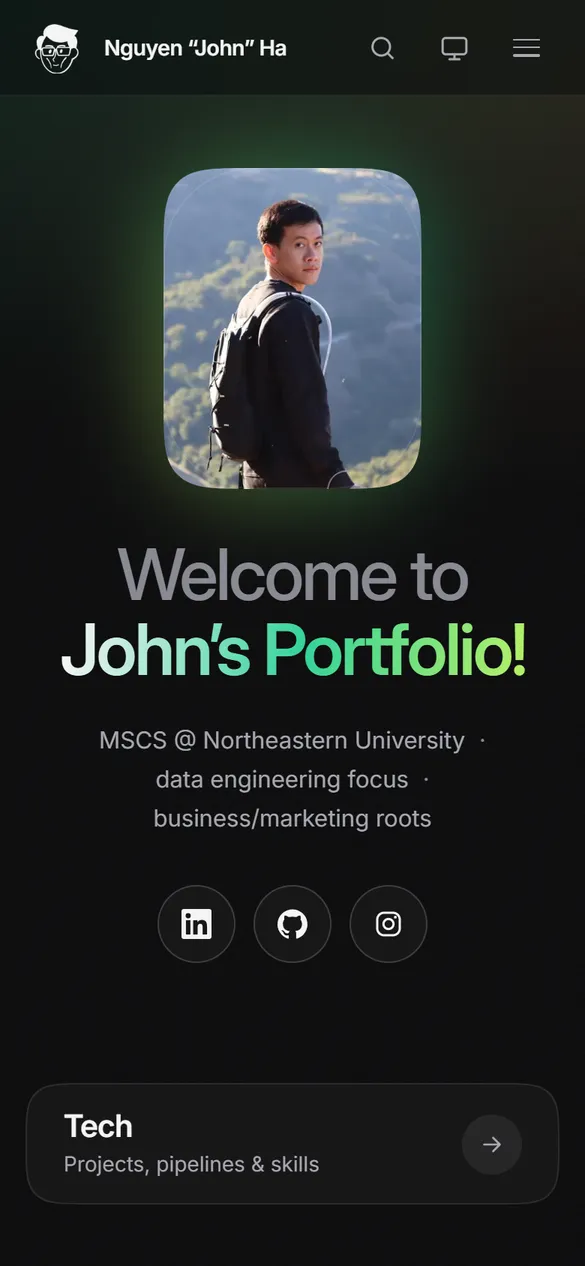
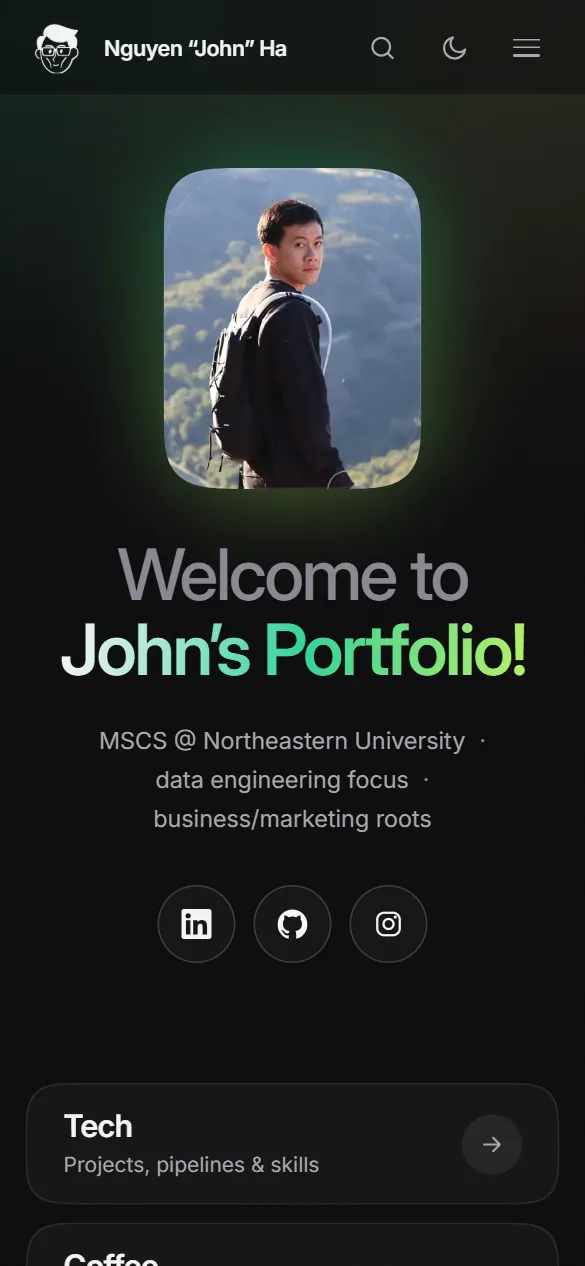
Refresh README screenshots and document the site structure
- Retake all six screenshots with the seven-link nav and the new
  About photo layout on phones
- New Site structure section: page tree, shared header and footer
- Repository layout lists what lives under site/

diff --git a/README.md b/README.md
@@ -41,6 +41,31 @@
 | **Coffee Blog** | Brew guides for pour over / flash brew, AeroPress, espresso, and Vietnamese phin, each with a recipe profile, steps, credited photos, and references; the espresso guide has an interactive TDS brewing control chart |
 | **Contact** | One-click email plus LinkedIn, GitHub, and Instagram |
 
+## Site structure
+
+```
+johnha.info
+├── /                              Home: portrait hero, social row, five-button section stack
+├── /about/                        About Me: photo collage, career path, education, certificates
+├── /tech/                         Projects: featured work, earlier work, toolbox
+├── /coffee-blog/                  Coffee Blog: 2×2 grid of brew guides
+│   ├── /pour-over-flash-brew/
+│   ├── /aeropress/
+│   ├── /espresso/                 includes the interactive TDS brewing control chart
+│   └── /vietnamese-phin/
+├── /contact/                      Email button with copy-address, social links
+├── /privacy/                      Analytics and cookie policy
+├── /home/                         Redirects to /
+└── /404.html                      Custom not-found page
+
+External sections: Music → SoundCloud · Photography → Instagram
+```
+
+Every page shares the same header and footer:
+
+- **Header nav:** Home · About · Tech · Coffee Blog ▾ (the four brew guides) · Music ↗ · Photography ↗ · Contact, plus search and the theme menu. Below 960px the links fold into a full-screen menu, where the brew guides collapse behind a chevron.
+- **Footer:** Back to top, ©, Privacy, and Cookie settings.
+
 ## Built with
 
 - **Plain HTML, CSS, and vanilla JS.** No framework and no build step; the home page loads in about 220 KB.
@@ -55,7 +80,13 @@
 
 ```
 site/                  Published site (the only folder deployed)
-  assets/css|js|fonts|img
+  <page>/index.html    One folder per page (see Site structure)
+  assets/css/          site.css: design tokens and all components
+  assets/js/           site.js (theme, menu, search, consent), espresso-chart.js
+  assets/fonts/        Self-hosted Inter and JetBrains Mono (WOFF2)
+  assets/img/          Responsive WebP images, icons, favicons
+  assets/vendor/       Plotly basic bundle (espresso chart only)
+  sitemap.xml, robots.txt, CNAME, site.webmanifest
 docs/                  Brief, design system, status, tooling, maintenance, domain guide
 .claude/agents/        Claude Code agent team (orchestrator + specialists)
 .claude/skills/        Vetted design skills (see docs/TOOLS.md)
